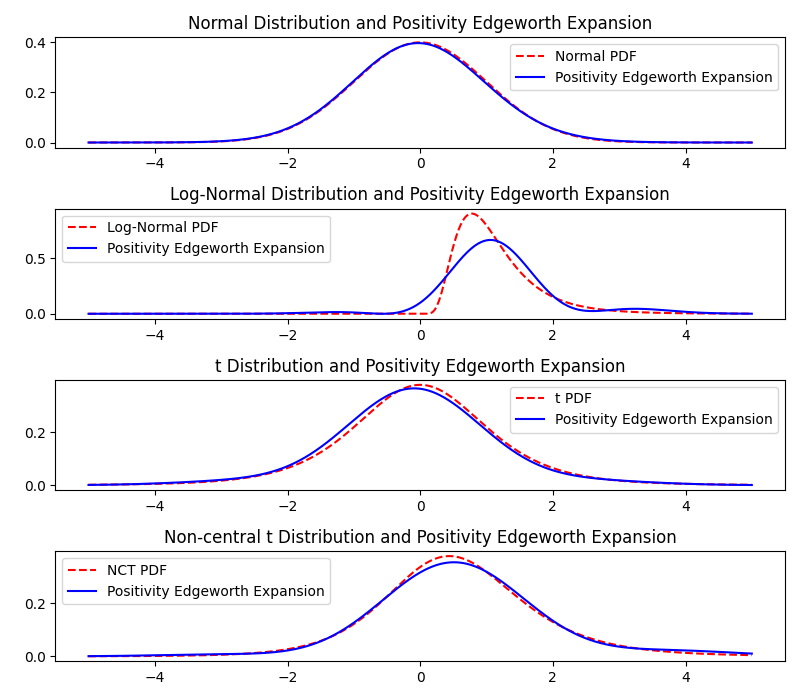
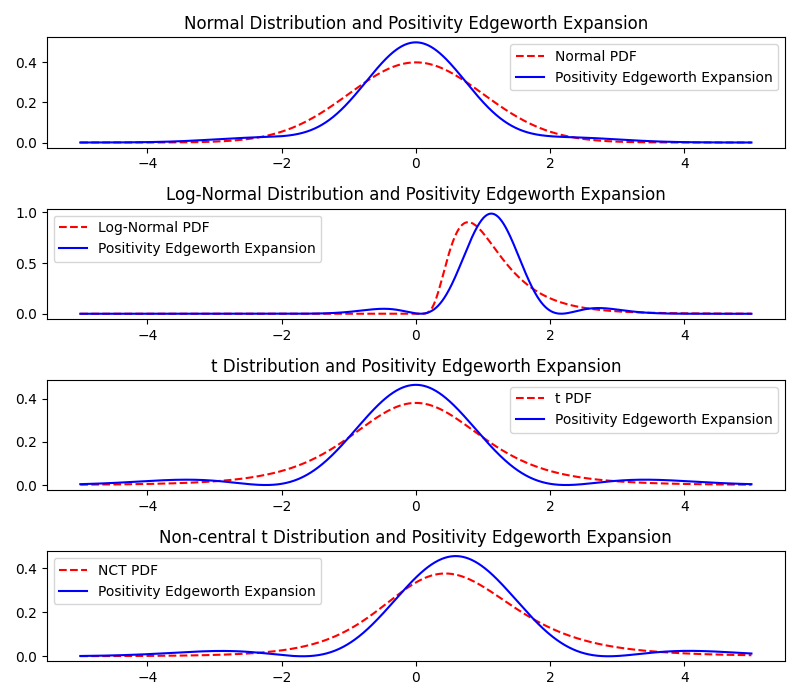
fix error in transform for positivity constraints

diff --git a/expansion_methods/edgeworth_positivity_constraints.py b/expansion_methods/edgeworth_positivity_constraints.py
@@ -6,126 +6,35 @@ import sys
 
 sys.path.append(os.path.dirname(os.path.dirname(os.path.abspath(__file__))))
 
-from all_methods import edgeworth_expansion_positivity_constraint
-
-# plt.figure(figsize=(8, 7))
-
-# plt.subplot(4, 2, 1)
-# all_z = np.linspace(-10, -Z_ROOT3, STEPS)
-# for z in all_z:
-#     if abs(z) in [Z_ROOT1, Z_ROOT2, Z_ROOT3]:
-#         continue
-#     plt.plot(k, parabolic_boundary_lines(z, k), color='black')
-#     plt.plot(k, -parabolic_boundary_lines(z, k), color='black')    
-# plt.xlabel('excess kurtosis')
-# plt.ylabel('skewness')
-# plt.xlim(-10, 10)
-# plt.ylim(-5, 5)
-# plt.title('Boundary lines, x in (-infinity, -3.32...)')
-
-# plt.subplot(4, 2, 2)
-# all_z = np.linspace(Z_ROOT3, 10, STEPS)
-# for z in all_z:
-#     if abs(z) in [Z_ROOT1, Z_ROOT2, Z_ROOT3]:
-#         continue
-#     plt.plot(k, parabolic_boundary_lines(z, k), color='black')
-#     plt.plot(k, -parabolic_boundary_lines(z, k), color='black')    
-# plt.xlabel('excess kurtosis')
-# plt.ylabel('skewness')
-# plt.xlim(-10, 10)
-# plt.ylim(-5, 5)
-# plt.title('Boundary lines, x in (3.32..., infinity)')
-
-# plt.subplot(4, 2, 3)
-# all_z = np.linspace(-Z_ROOT3, -Z_ROOT2, STEPS)
-# for z in all_z:
-#     if abs(z) in [Z_ROOT1, Z_ROOT2, Z_ROOT3]:
-#         continue
-#     plt.plot(k, parabolic_boundary_lines(z, k), color='black')
-#     plt.plot(k, -parabolic_boundary_lines(z, k), color='black')    
-# plt.xlabel('excess kurtosis')
-# plt.ylabel('skewness')
-# plt.xlim(-10, 10)
-# plt.ylim(-5, 5)
-# plt.title('Boundary lines, x in (-3.32..., -1.89...)')
-
-# plt.subplot(4, 2, 4)
-# all_z = np.linspace(Z_ROOT2, Z_ROOT3, STEPS)
-# for z in all_z:
-#     if abs(z) in [Z_ROOT1, Z_ROOT2, Z_ROOT3]:
-#         continue
-#     plt.plot(k, parabolic_boundary_lines(z, k), color='black')
-#     plt.plot(k, -parabolic_boundary_lines(z, k), color='black')    
-# plt.xlabel('excess kurtosis')
-# plt.ylabel('skewness')
-# plt.xlim(-10, 10)
-# plt.ylim(-5, 5)
-# plt.title('Boundary lines, x in (1.89..., 3.32...)')
-
-# plt.subplot(4, 2, 5)
-# all_z = np.linspace(-Z_ROOT2, -Z_ROOT1, STEPS)
-# for z in all_z:
-#     if abs(z) in [Z_ROOT1, Z_ROOT2, Z_ROOT3]:
-#         continue
-#     plt.plot(k, parabolic_boundary_lines(z, k), color='black')
-#     plt.plot(k, -parabolic_boundary_lines(z, k), color='black')    
-# plt.xlabel('excess kurtosis')
-# plt.ylabel('skewness')
-# plt.xlim(-10, 10)
-# plt.ylim(-5, 5)
-# plt.title('Boundary lines, x in (-1.89..., -0.62...)')
-
-# plt.subplot(4, 2, 6)
-# all_z = np.linspace(Z_ROOT1, Z_ROOT2, STEPS)
-# for z in all_z:
-#     if abs(z) in [Z_ROOT1, Z_ROOT2, Z_ROOT3]:
-#         continue
-#     plt.plot(k, parabolic_boundary_lines(z, k), color='black')
-#     plt.plot(k, -parabolic_boundary_lines(z, k), color='black')    
-# plt.xlabel('excess kurtosis')
-# plt.ylabel('skewness')
-# plt.xlim(-10, 10)
-# plt.ylim(-5, 5)
-# plt.title('Boundary lines, x in (0.62..., 1.89...)')
-
-# plt.subplot(4, 2, 7)
-# all_z = np.linspace(-Z_ROOT1, Z_ROOT1, STEPS)
-# for z in all_z:
-#     if abs(z) in [Z_ROOT1, Z_ROOT2, Z_ROOT3]:
-#         continue
-#     plt.plot(k, parabolic_boundary_lines(z, k), color='black')
-#     plt.plot(k, -parabolic_boundary_lines(z, k), color='black')    
-# plt.xlabel('excess kurtosis')
-# plt.ylabel('skewness')
-# plt.xlim(-10, 10)
-# plt.ylim(-5, 5)
-# plt.title('Boundary lines, x in (-0.62..., 0.62...)')
-
-# plt.tight_layout()
-# plt.show()
+from all_methods import edgeworth_expansion_positivity_constraint, get_intersections_ew, parabolic_boundary_lines
 
 # intersections = sorted(intersections, key=lambda x: x[0])
 # print(intersections[0], intersections[1], intersections[-2], intersections[-1])
 
-# Calculate theoretical skewness and kurtosis
-normal_mean, normal_var, normal_skew, normal_exkurt = norm.stats(moments='mvsk')
-lognorm_mean, lognorm_var, lognorm_skew, lognorm_exkurt = lognorm.stats(0.5, moments = 'mvsk')
-t_mean, t_var, t_skew, t_exkurt = t.stats(5, moments = 'mvsk')
-nct_mean, nct_var, nct_skew, nct_exkurt = nct.stats(5, 0.5, moments = 'mvsk')
+# Plot lines
+for z in np.linspace(-10, 0, 1000):
+    plt.plot(np.linspace(-10, 10, 1000), parabolic_boundary_lines(z, np.linspace(-10, 10, 1000)), color='black')
+intersections = get_intersections_ew()
+plt.plot([x[0] for x in intersections], [x[1] for x in intersections], linestyle = 'None', marker = 'o', markersize = 1, color = 'r')
+plt.xlim(-1, 5)
+plt.ylim(0, 2)
+plt.xlabel('Excess Kurtosis')
+plt.ylabel('Skewness')
+plt.title('Boundary Lines of Positivity Region')
+plt.tight_layout()
+plt.show()
 
-print(normal_mean, normal_var, normal_skew, normal_exkurt)
-print(lognorm_mean, lognorm_var, lognorm_skew, lognorm_exkurt)
-print(t_mean, t_var, t_skew, t_exkurt)
-print(nct_mean, nct_var, nct_skew, nct_exkurt)
+# plot the positivity boundary
+intersections = get_intersections_ew()
+plt.plot([x[0] for x in intersections], [x[1] for x in intersections], linestyle = 'None', marker = 'o', markersize = 2, color = 'r')
+plt.title('Positivity Boundary of Edgeworth Density Function')
+plt.xlabel('Excess Kurtosis')
+plt.ylabel('Skewness')
+plt.tight_layout()
+plt.show()
 
 # Define x range for plotting
 x = np.linspace(-5, 5, 1000)
-
-# Apply Edgeworth expansion with MLE
-normal_data = norm.rvs(size=1000)
-lognorm_data = lognorm.rvs(0.5, size=1000)
-t_data = t.rvs(5, size=1000)
-nct_data = nct.rvs(5, 0.5, size=1000)
 
 normal_expansion = edgeworth_expansion_positivity_constraint(x, *norm.stats(moments='mvsk'))
 lognorm_expansion = edgeworth_expansion_positivity_constraint(x, *lognorm.stats(0.5, moments = 'mvsk'))

diff --git a/expansion_methods/all_methods.py b/expansion_methods/all_methods.py
@@ -82,6 +82,7 @@ def transform_skew_exkurt_into_positivity_region(skew, exkurt, intersections):
         return 0, 4
     
     # find i such that intersections[i][0] < new_kurt <= intersections[i+1][0]
+    intersections.sort(key = lambda x: x[0])
     for i in range(len(intersections)-1):
         if intersections[i][0] < new_exkurt <= intersections[i+1][0]:
             break
@@ -165,19 +166,8 @@ def neg_log_likelihood_ew(params, data):
     return -np.sum(np.log(likelihoods))
 
 def edgeworth_expansion_positivity_constraint(x, mean, variance, skewness, exkurt):
-    initial_params = [mean, variance, skewness, exkurt]
-    bounds = [(min(x)-1, max(x)+1), (0.1, 10), (-10, 10), (-10, 10)]
-    result = minimize(neg_log_likelihood_ew, initial_params, args=(x), method='Powell', bounds=bounds)
-    
-    if result.success:
-        mu, sigma2, skew, exkurt = result.x
-        skew, exkurt = transform_skew_exkurt_into_positivity_region(skew, exkurt, get_intersections_ew())
-        # print(f"Fitted parameters: mu = {mu:.4f}, sigma^2 = {sigma2:.4f}, skew = {skew:.4f}, exkurt = {exkurt:.4f}")
-        # print(f"Log-likelihood fitted: {-neg_log_likelihood([mu, sigma2, skew, exkurt], x):.4f}, Log-likelihood initial: {-neg_log_likelihood([mean, variance, skewness, exkurt], x):.4f}")
-        expansion = edgeworth_expansion(x, mu, sigma2, skew, exkurt)
-    else:
-        print("Optimization failed.")
-        expansion = [0] * len(x)
+    new_skew, new_exkurt = transform_skew_exkurt_into_positivity_region(skewness, exkurt, get_intersections_ew())
+    expansion = edgeworth_expansion(x, *scipy_mvsek_to_cumulants(mean, variance, new_skew, new_exkurt))
         
     return expansion
 
